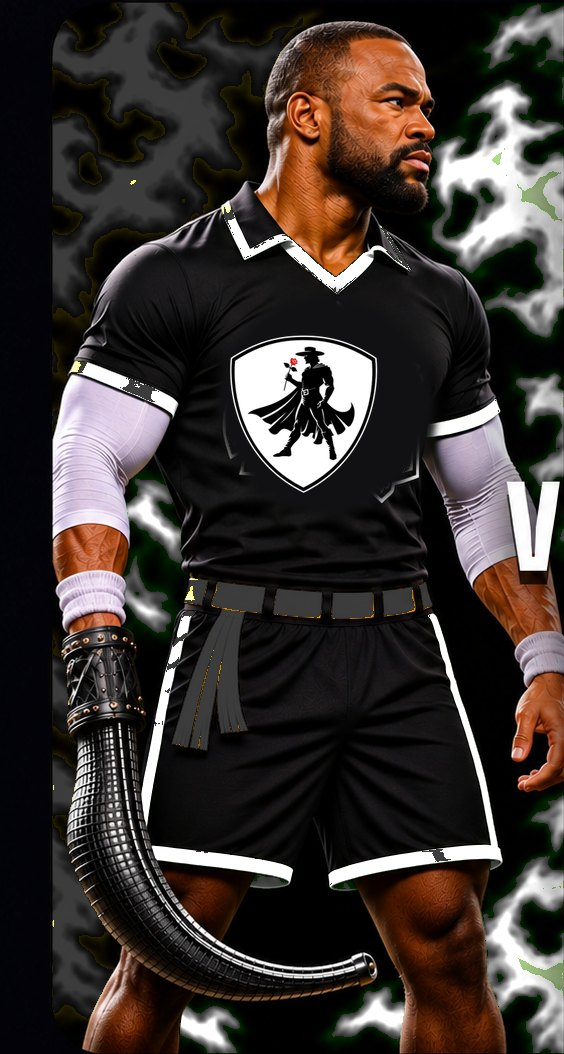
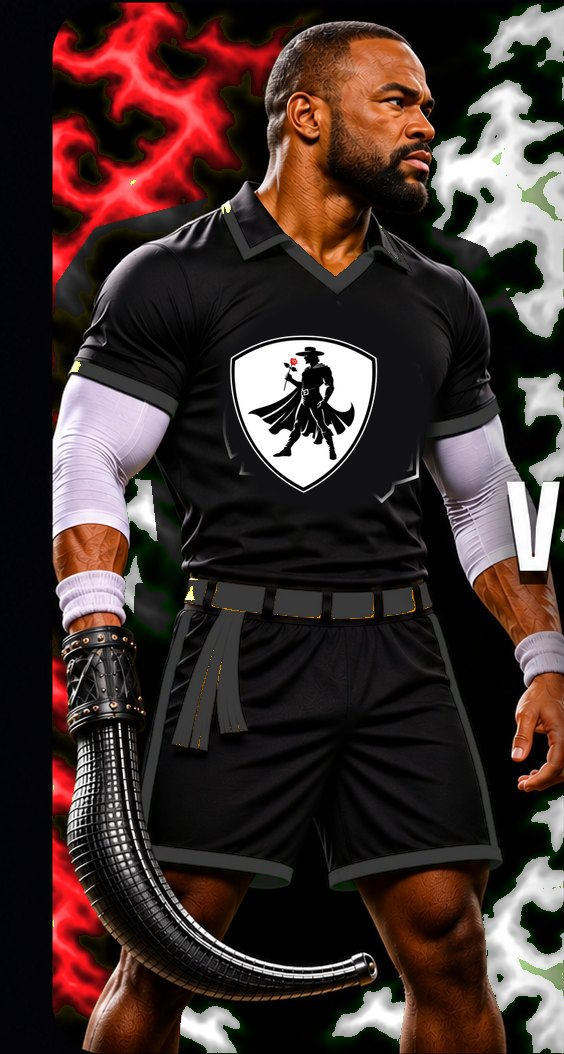
Uniforms rebuilt from JP's reference pictures: Don Juans all black trim, Skunk Apes teal trim and orange belt, two-color smoke per team, Team USA hem with thin red stitching
Claude-Session: https://claude.ai/code/session_01RXYkimbn35SjoihCfai7fS

diff --git a/index.html b/index.html
@@ -18,7 +18,7 @@ img { max-width: 100%; }
 [hidden] { display: none !important; }
 </style>
 <script>
-window.FL_BUILD = "20261120212225";
+window.FL_BUILD = "20261120213532";
 window.FL_RELAY = "wss://relay-production-5e78c1a2.up.railway.app/ws";
 window.FL_STATS = "https://relay-production-5e78c1a2.up.railway.app/t";
 window.FL_FEEDBACK = "https://relay-production-5e78c1a2.up.railway.app/feedback";
@@ -736,7 +736,7 @@ body.poster-on #tapPlay { display: block; position: sticky; bottom: calc(26px + 
 </div>
 
 <script>
-window.FL_LOOK2 = 1; window.FL_PROMO = { tag: "Limited Edition · Celebrity Match Up", target: 15, adEvery: 5, modes: ["side", "aerial", "table"], teams: [14, 0, 1, 2, 3, 4, 5, 6], extra: [{ name: "Fantasy League", logo: "brand.png", ui: "#c4c5cb", kit: { jersey: "#141418", sash: "#2a2a30", helm: "#9a9ba2", num: "#ffffff", nk: { helm: "#9a9ba2", belt: "#3a3a42" } } }], kits: { 6: { jersey: "#1e2c58", sash: "#d8232f", belt: "#d8232f", helm: "#1e2c58", num: "#ffffff" } }, people: [{ name: "Suga Rashad Evans", team: 14, look: 1, face: "celeb-face-1.jpg?v=2", art: { 0: "celeb-1-0.jpg?v=7", 1: "celeb-1-1.jpg?v=7", 2: "celeb-1-2.jpg?v=7", 3: "celeb-1-3.jpg?v=7", 4: "celeb-1-4.jpg?v=7", 5: "celeb-1-5.jpg?v=7", 6: "celeb-1-6.jpg?v=7", 14: "celeb-1-14.jpg?v=7" } }, { name: "Ken Shamrock", team: 14, look: -1, face: "celeb-face-2.jpg?v=2", art: { 0: "celeb-2-0.jpg?v=7", 1: "celeb-2-1.jpg?v=7", 2: "celeb-2-2.jpg?v=7", 3: "celeb-2-3.jpg?v=7", 4: "celeb-2-4.jpg?v=7", 5: "celeb-2-5.jpg?v=7", 6: "celeb-2-6.jpg?v=7", 14: "celeb-2-14.jpg?v=7" } }] }; window.FL_POSTER = 1; window.FL_MUSIC = 1;
+window.FL_LOOK2 = 1; window.FL_PROMO = { tag: "Limited Edition · Celebrity Match Up", target: 15, adEvery: 5, modes: ["side", "aerial", "table"], teams: [14, 0, 1, 2, 3, 4, 5, 6], extra: [{ name: "Fantasy League", logo: "brand.png", ui: "#c4c5cb", kit: { jersey: "#141418", sash: "#2a2a30", helm: "#9a9ba2", num: "#ffffff", nk: { helm: "#9a9ba2", belt: "#3a3a42" } } }], kits: { 6: { jersey: "#1e2c58", sash: "#d8232f", belt: "#d8232f", helm: "#1e2c58", num: "#ffffff" } }, people: [{ name: "Suga Rashad Evans", team: 14, look: 1, face: "celeb-face-1.jpg?v=2", art: { 0: "celeb-1-0.jpg?v=8", 1: "celeb-1-1.jpg?v=8", 2: "celeb-1-2.jpg?v=8", 3: "celeb-1-3.jpg?v=8", 4: "celeb-1-4.jpg?v=8", 5: "celeb-1-5.jpg?v=8", 6: "celeb-1-6.jpg?v=8", 14: "celeb-1-14.jpg?v=8" } }, { name: "Ken Shamrock", team: 14, look: -1, face: "celeb-face-2.jpg?v=2", art: { 0: "celeb-2-0.jpg?v=8", 1: "celeb-2-1.jpg?v=8", 2: "celeb-2-2.jpg?v=8", 3: "celeb-2-3.jpg?v=8", 4: "celeb-2-4.jpg?v=8", 5: "celeb-2-5.jpg?v=8", 6: "celeb-2-6.jpg?v=8", 14: "celeb-2-14.jpg?v=8" } }] }; window.FL_POSTER = 1; window.FL_MUSIC = 1;
 /* ---------- Jai alai rules + physics (no DOM) ---------- */
 var Core = (function () {
   'use strict';
